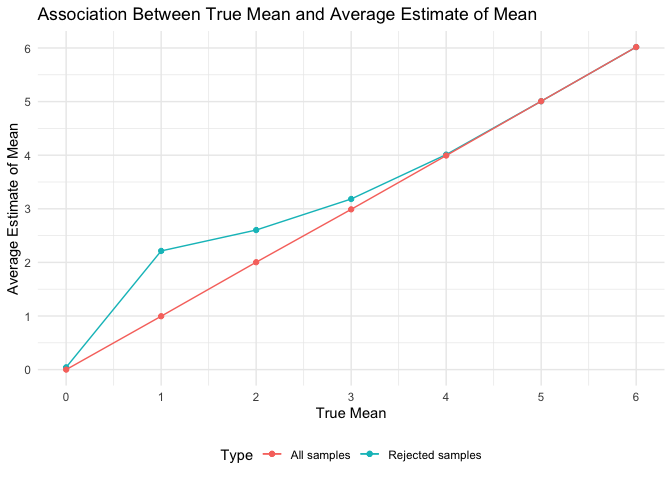
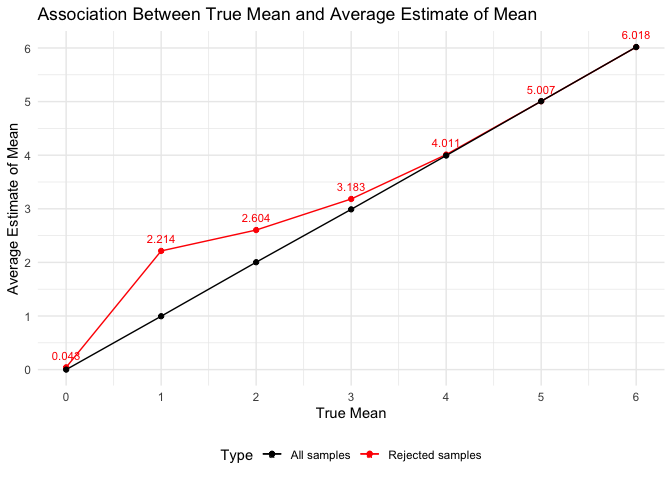
comment on the plots

diff --git a/p8105_hw5_yx2638.md b/p8105_hw5_yx2638.md
@@ -1,6 +1,6 @@
-p8105_hw5_yx2638
+P8105 Homework 5
 ================
-Yifei Xu
+Yifei Xu (yx2638)
 2022-11-10
 
 ### Problem 2
@@ -18,7 +18,7 @@ has 52179 observations of homicides and 12 key variables represent uid,
 reported date, victims’ last name, first name, race, age, sex, city,
 state, latitude, longitude, and disposition.
 
-Next, we create a city_state variable and a resolved variable to
+Next, we create a `city_state` variable and a `resolved` variable to
 indicate whether the homicides were solved. There was one observation
 was mis-recorded as “Tulsa, AL” and we plan to drop it since Tulsa is
 the city in the state of Oklahoma rather than Alabama.
@@ -64,17 +64,10 @@ Below is the estimation of the proportion of homicides that are unsolved
 in Baltimore, MD.
 
 ``` r
-bal_homicide = homicide_tidy %>%
-  filter(city_state == "Baltimore, MD")
-
-bal_summary = bal_homicide %>%
-  group_by(city_state) %>%
-  summarise(num_homicides = n(),
-            num_unsolved_homicides = sum(resolved == "unsolved"),
-            prop_unsolved_homicides = num_unsolved_homicides/num_homicides) 
-
-bal_test = prop.test(x = bal_summary %>% pull(num_unsolved_homicides),
-                     n = bal_summary %>% pull(num_homicides))
+bal_test = prop.test(
+  x = city_summary %>% filter(city_state == "Baltimore, MD") %>% pull(num_unsolved_homicides), 
+  n = city_summary %>% filter(city_state == "Baltimore, MD") %>% pull(num_homicides)
+  ) 
 
 bal_test %>% broom::tidy()
 ```
@@ -107,7 +100,7 @@ and the confidence interval is \[0.628, 0.663\].
 We will run proportion test for each of the cities in the dataset.
 
 ``` r
-results_df = 
+cities_test = 
   city_summary %>% 
   mutate(prop_test = map2(.x = num_unsolved_homicides, .y = num_homicides, ~prop.test(x = .x, n = .y)),
          tidy_test = map(.x = prop_test, ~broom::tidy(.x))) %>% 
@@ -115,7 +108,7 @@ results_df =
   unnest(tidy_test) %>% 
   select(city_state, estimate, conf.low, conf.high)
 
-results_df
+cities_test
 ```
 
     ## # A tibble: 50 × 4
@@ -136,7 +129,7 @@ results_df
 Below is a plot that shows the estimates and CIs for each city.
 
 ``` r
-results_df %>%
+cities_test %>%
   mutate(city_state = fct_reorder(city_state, estimate)) %>%
   ggplot(aes(x = city_state, y = estimate)) +
   geom_point() +
@@ -144,7 +137,8 @@ results_df %>%
   labs(x = "City",
        y = "Estimate",
        title = "Estimates and Confidence Intervals of Porportion of Unsolved Homicides for Each City") +
-  theme(axis.text.x = element_text(angle = 90, vjust = 0.5, hjust=1))
+  theme(axis.text.x = element_text(angle = 90, vjust = 0.5, hjust=1)) +
+  theme(plot.title = element_text(size = 12))
 ```
 
 ![](p8105_hw5_yx2638_files/figure-gfm/unnamed-chunk-6-1.png)<!-- -->
@@ -155,8 +149,6 @@ First create the function to generate normally distributed data and
 conduct t-test.
 
 ``` r
-set.seed(1)
-
 sim_t_test = function(n = 30, mu, sigma = 5){
   sim_data = tibble(
     x = rnorm(n, mean = mu, sd = sigma)
@@ -172,20 +164,23 @@ sim_t_test = function(n = 30, mu, sigma = 5){
 }
 ```
 
-Then generate 5000 datasets from the model $x \sim Normal[\mu, \sigma]$
+Then generate 5000 datasets from the model $X \sim Normal[\mu, \sigma]$
 and repeat t-test
 
 ``` r
+set.seed(1) 
+
 sim_results_df = 
   tibble(true_mean = c(0:6)) %>% 
   mutate(
     output_lists = map(.x = true_mean, ~rerun(5000, sim_t_test(mu = .x))),
-    estimate_dfs = map(output_lists, bind_rows)) %>% 
+    estimate_dfs = map(output_lists, bind_rows)
+    ) %>% 
   select(-output_lists) %>% 
   unnest(estimate_dfs)
 ```
 
-Below is a plot showing the proportion of times the null was rejected
+Below is a plot showing the proportion of times the null is rejected
 (the power of the test) on the $y$ axis and the true value of $\mu$ on
 the $x$ axis.
 
@@ -200,16 +195,25 @@ sim_results_df %>%
   ggplot(aes(x = true_mean, y = rej_prop)) +
   geom_point() +
   geom_line() + 
+  geom_text(aes(label = round(rej_prop, 3)), vjust = -1, size = 3) + 
   scale_x_continuous(n.breaks = 10) +
   scale_y_continuous(n.breaks = 6) +
   labs(
-    title = "Relationship Between Effect Size and Power",
+    title = "Association Between Effect Size and Power",
     x = "True Mean",
     y = "Power of Test"
   )
 ```
 
 ![](p8105_hw5_yx2638_files/figure-gfm/unnamed-chunk-9-1.png)<!-- -->
+
+From the line plot, we can observe that with the increase of the
+difference between true mean and 0 (effect size), the proportion of
+times the null is rejected presents a overall increase trend. It
+increases sharply at first, and then the increase trend slows down as
+the proportion closer to 1??. Generally speaking, there is a positive
+association between the effect size and power of the test, which means
+the larger the effect size, the greater the power.
 
 Next is a plot showing the average estimate of $\mu$ on the $y$ axis and
 the true value of $\mu$ on the $x$ axis.
@@ -223,6 +227,7 @@ sim_results_df %>%
   ggplot(aes(x = true_mean, y = avg_mu_hat)) +
   geom_point() +
   geom_line() + 
+  geom_text(aes(label = round(avg_mu_hat, 3)), vjust = -1, size = 3) + 
   scale_x_continuous(n.breaks = 6) +
   scale_y_continuous(n.breaks = 6) +
   labs(
@@ -254,8 +259,10 @@ sim_results_df %>%
   ggplot(aes(x = true_mean, y = avg_mu_hat_rej, color = "Rejected samples")) +
   geom_point() +
   geom_line() + 
+  geom_text(aes(label = round(avg_mu_hat_rej, 3)), vjust = -1, size = 3) +
   geom_point(data = overall_df, aes(x = true_mean, y = avg_mu_hat, color = "All samples")) +
   geom_line(data = overall_df, aes(x = true_mean, y = avg_mu_hat, color = "All samples")) +  
+  #geom_text(data = overall_df, aes(label = round(avg_mu_hat, 3), color = "All samples"), vjust = -1, size = 3) +
   scale_x_continuous(n.breaks = 6) +
   scale_y_continuous(n.breaks = 6) +
   labs(
@@ -263,7 +270,21 @@ sim_results_df %>%
     x = "True Mean",
     y = "Average Estimate of Mean",
     color = "Type"
-  )
+  ) +
+  scale_color_manual(values = c("All samples" = "black", "Rejected samples" = "red"))
 ```
 
 ![](p8105_hw5_yx2638_files/figure-gfm/unnamed-chunk-11-1.png)<!-- -->
+
+From plot above, we can observe that the sample average of $\hat{\mu}$
+across tests for all samples is approximately equal to the true value of
+$\mu$. However, for the sample average of $\hat{\mu}$ across tests for
+which the null is rejected, it is approximately equal to the true value
+of $\mu$ when $\mu=4,5,6$ while it is different from the true value of
+$\mu$ when $\mu=1,2,3$.  
+We reject the null hypothesis when the estimate of mean $\hat{\mu}$ is
+significantly different from 0. As the true mean gets larger, the effect
+size becomes larger accordingly, which leads to a higher probability of
+correctly rejecting the null hypothesis. Therefore, when $\mu=4,5,6$
+more samples are correctly rejected, approximately equivalent to the
+whole samples.
